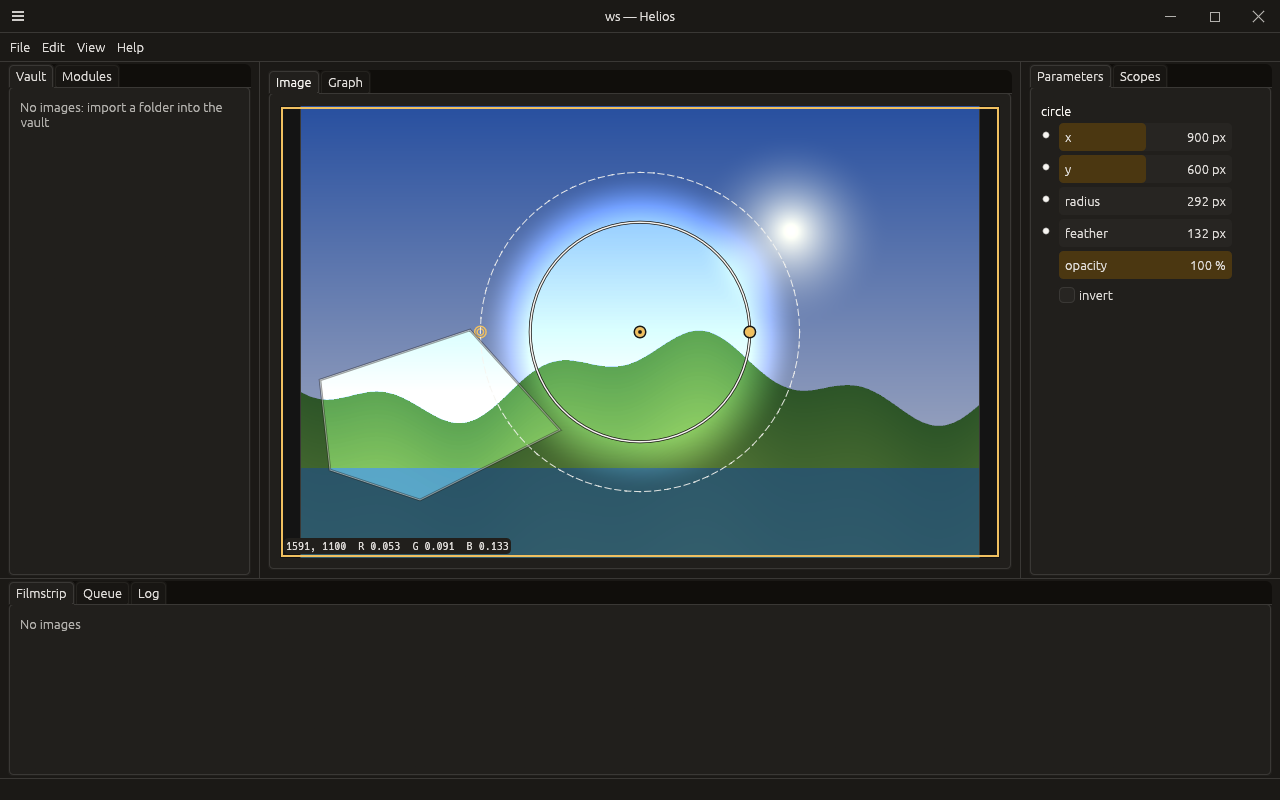
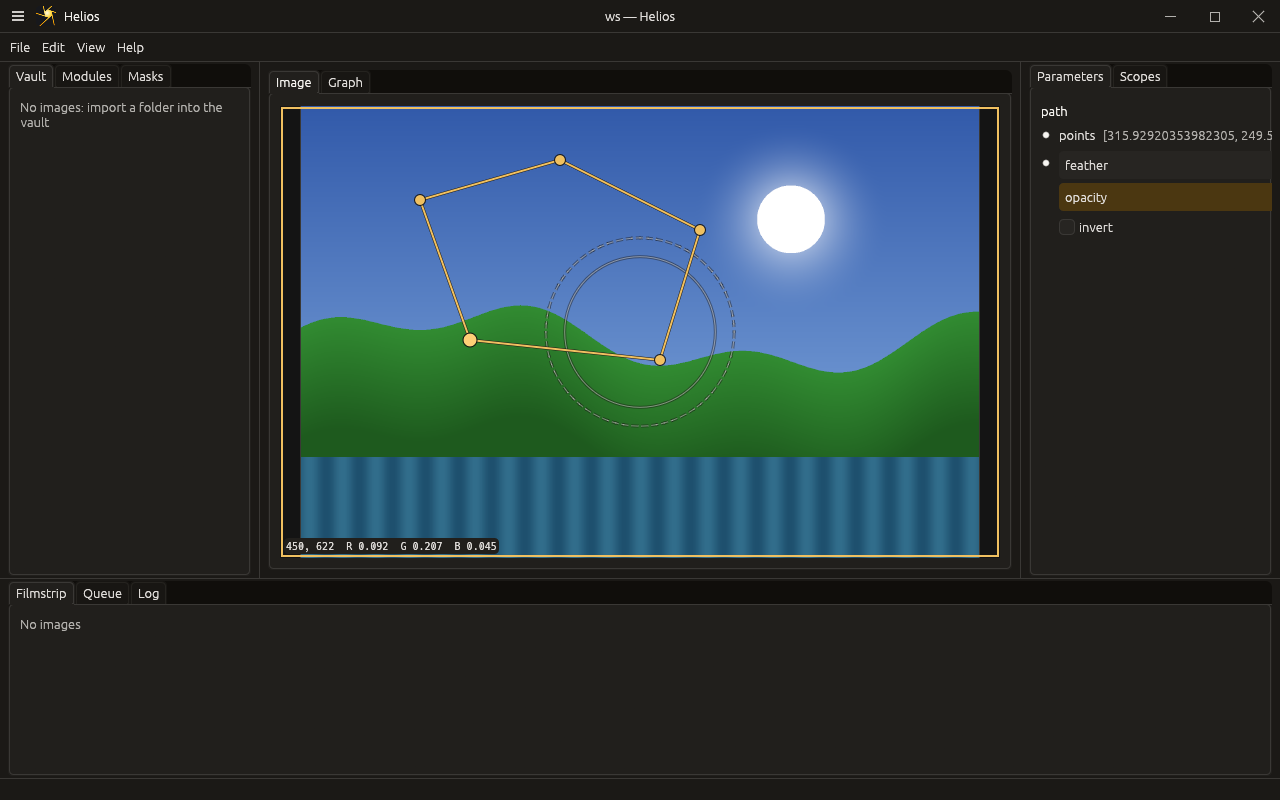
Docs: the masks pictures again, with the overlay styles and tree rows
Both pictures are new wbox runs of helios-gui --image: the viewport's
with a selected path beside a faint circle and its dashed feather, the
Masks panel's with each row's icon, eye and lock (the ellipse inverted
and locked, the circle hidden). Their captions say what was done.

diff --git a/docs/gui.md b/docs/gui.md
@@ -492,9 +492,9 @@ the `--image` network has one mask (on its exposure).
 ![A circle and a path edited on the viewport](gui/masks-wbox.png)
 
 The picture is a run of `helios-gui --image` in wbox, driven by its
-keys and pointer: the exposure raised, `C` for a circle, `P` and five
-clicks for a path, a double click adding a point to it, then the
-circle's radius and feather dragged.
+keys and pointer: `C` for a circle, then `P`, five clicks and Enter for
+a path. The path, selected, shows its edge and its handles; the circle
+is drawn faint, its feather dashed.
 
 ### The Masks panel
 
@@ -559,8 +559,9 @@ not shown in the tree, only its group's for it.
 ![The Masks panel beside the image](gui/mask-tree-wbox.png)
 
 The picture is a run of `helios-gui --image` in wbox: `C`, `E` and `G`
-on the image, then in the Masks panel the ellipse inverted, the circle's
-opacity turned off and the gradient selected.
+on the image, then in the Masks panel the ellipse inverted (Invert) and
+locked (its row's lock), the circle hidden (its row's eye) and the
+gradient selected.
 
 The picture is a run of `helios-gui --image` in wbox (a headless nested
 compositor). Beside the same run of the viewport it replaced, the image's
